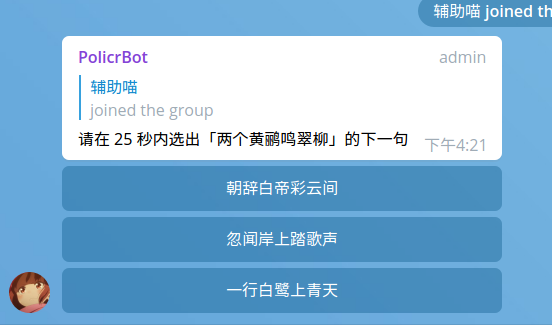
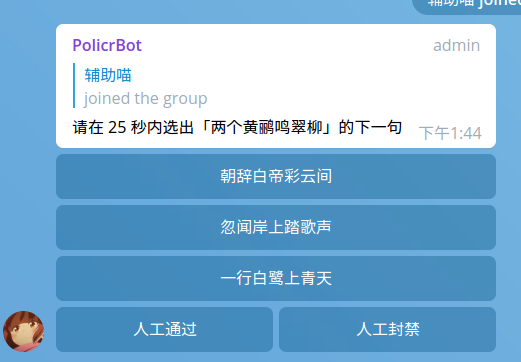
Update README.md

diff --git a/README.md b/README.md
@@ -4,7 +4,7 @@
 
 ## 介绍
 
-使用内联键盘的消息审核加群成员，支持倒计时
+使用内联键盘的消息审核加群成员，支持倒计时。管理员可直接对新成员进行操作
 
 ![审核加群](https://github.com/Hentioe/policr/raw/master/.policr/1.png)
 
@@ -12,11 +12,17 @@
 
 ![封杀清真](https://github.com/Hentioe/policr/raw/master/.policr/2.png)
 
+考虑到你的愧疚心，特意添加了解封后的私聊入口
+
+![私聊入口](https://github.com/Hentioe/policr/raw/master/.policr/2.1.png)
+
 各种搞怪的买萌反馈
 
 ![通过验证](https://github.com/Hentioe/policr/raw/master/.policr/3.png)
 
-面对奇怪的人故意触发内联键盘的按钮，也并不会产生任何副作用
+![走后门](https://github.com/Hentioe/policr/raw/master/.policr/3.1.png)
+
+面对奇怪的人捣乱，也并不会产生任何副作用
 
 ![无关人士点击内联键盘按钮](https://github.com/Hentioe/policr/raw/master/.policr/4.png)
 
@@ -24,7 +30,7 @@
 
 ![速度慢了](https://github.com/Hentioe/policr/raw/master/.policr/5.png)
 
-从封禁中自动解除，不限次数的重给机会
+将从封禁中自动解除，不限次数的重给机会
 
 ![再给一次机会](https://github.com/Hentioe/policr/raw/master/.policr/6.png)
 
